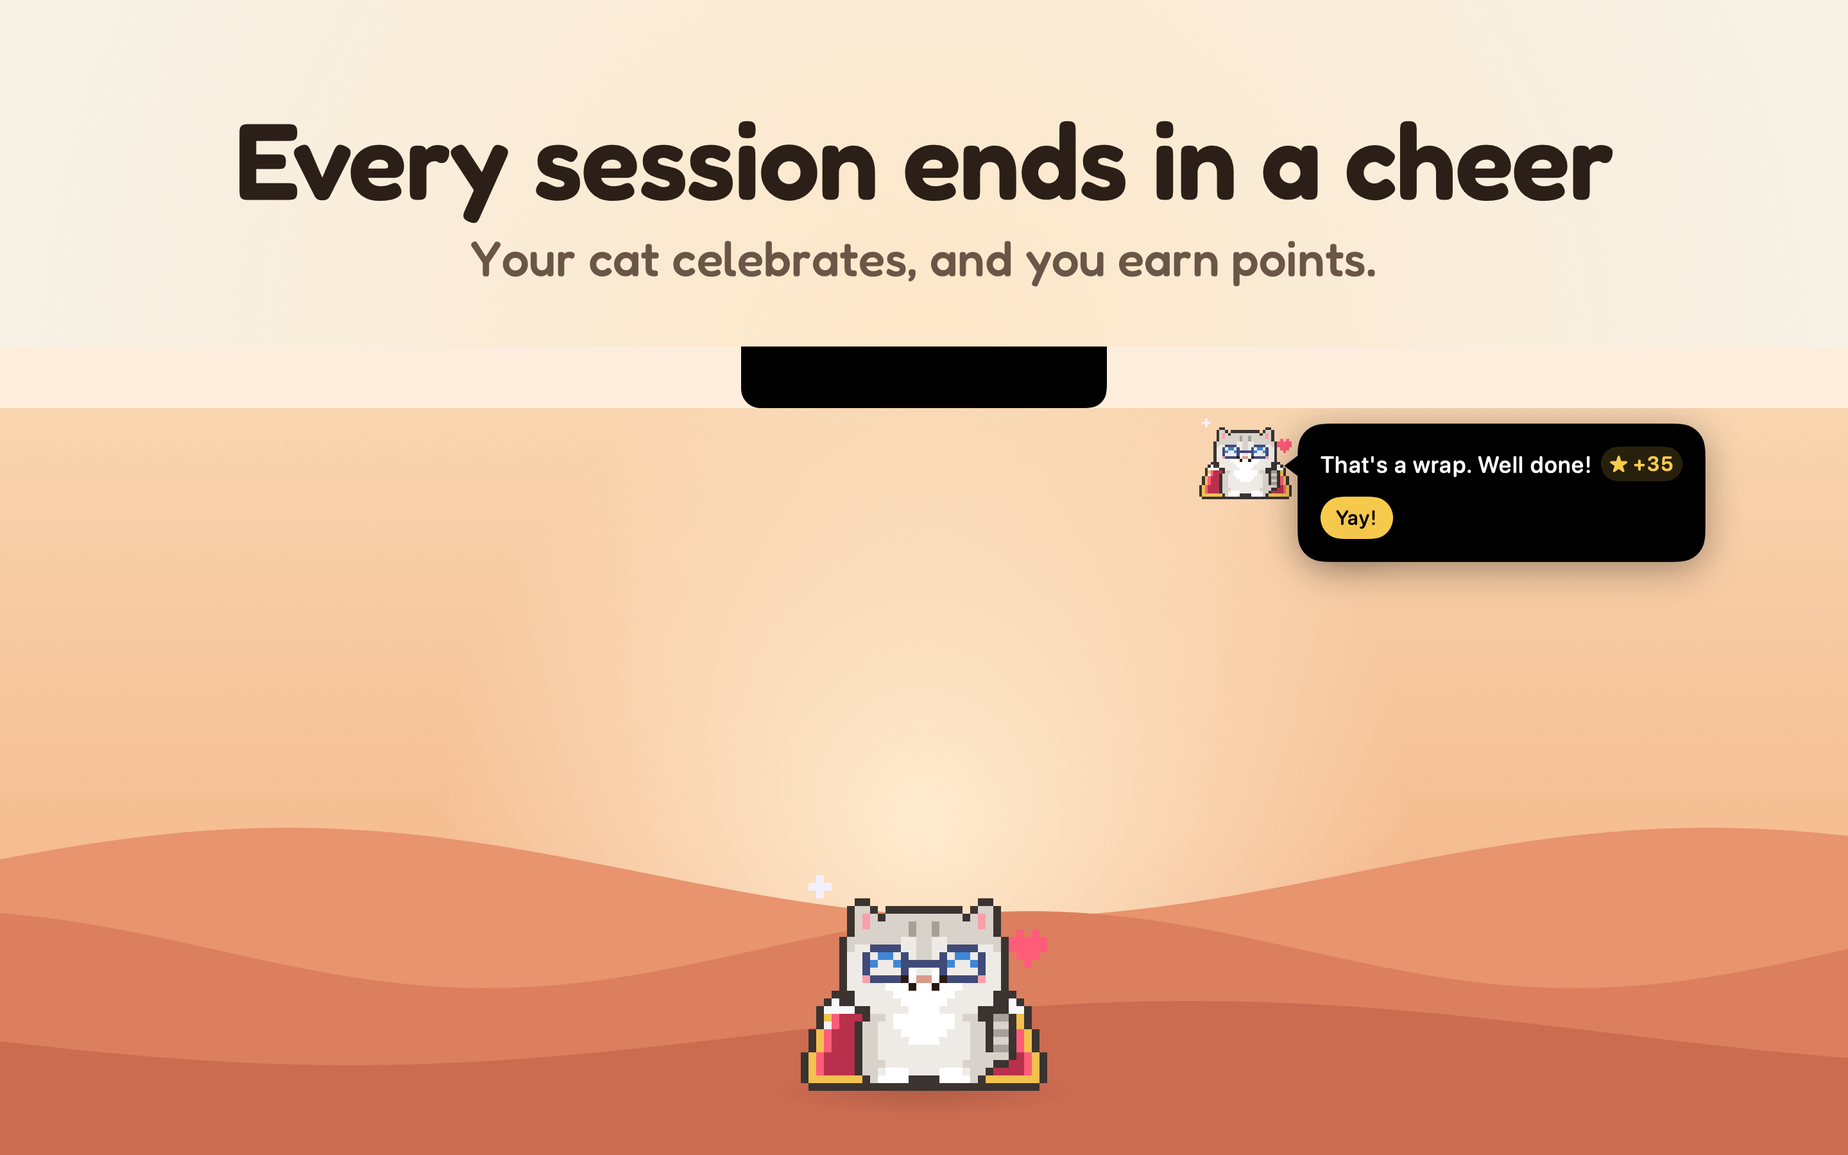
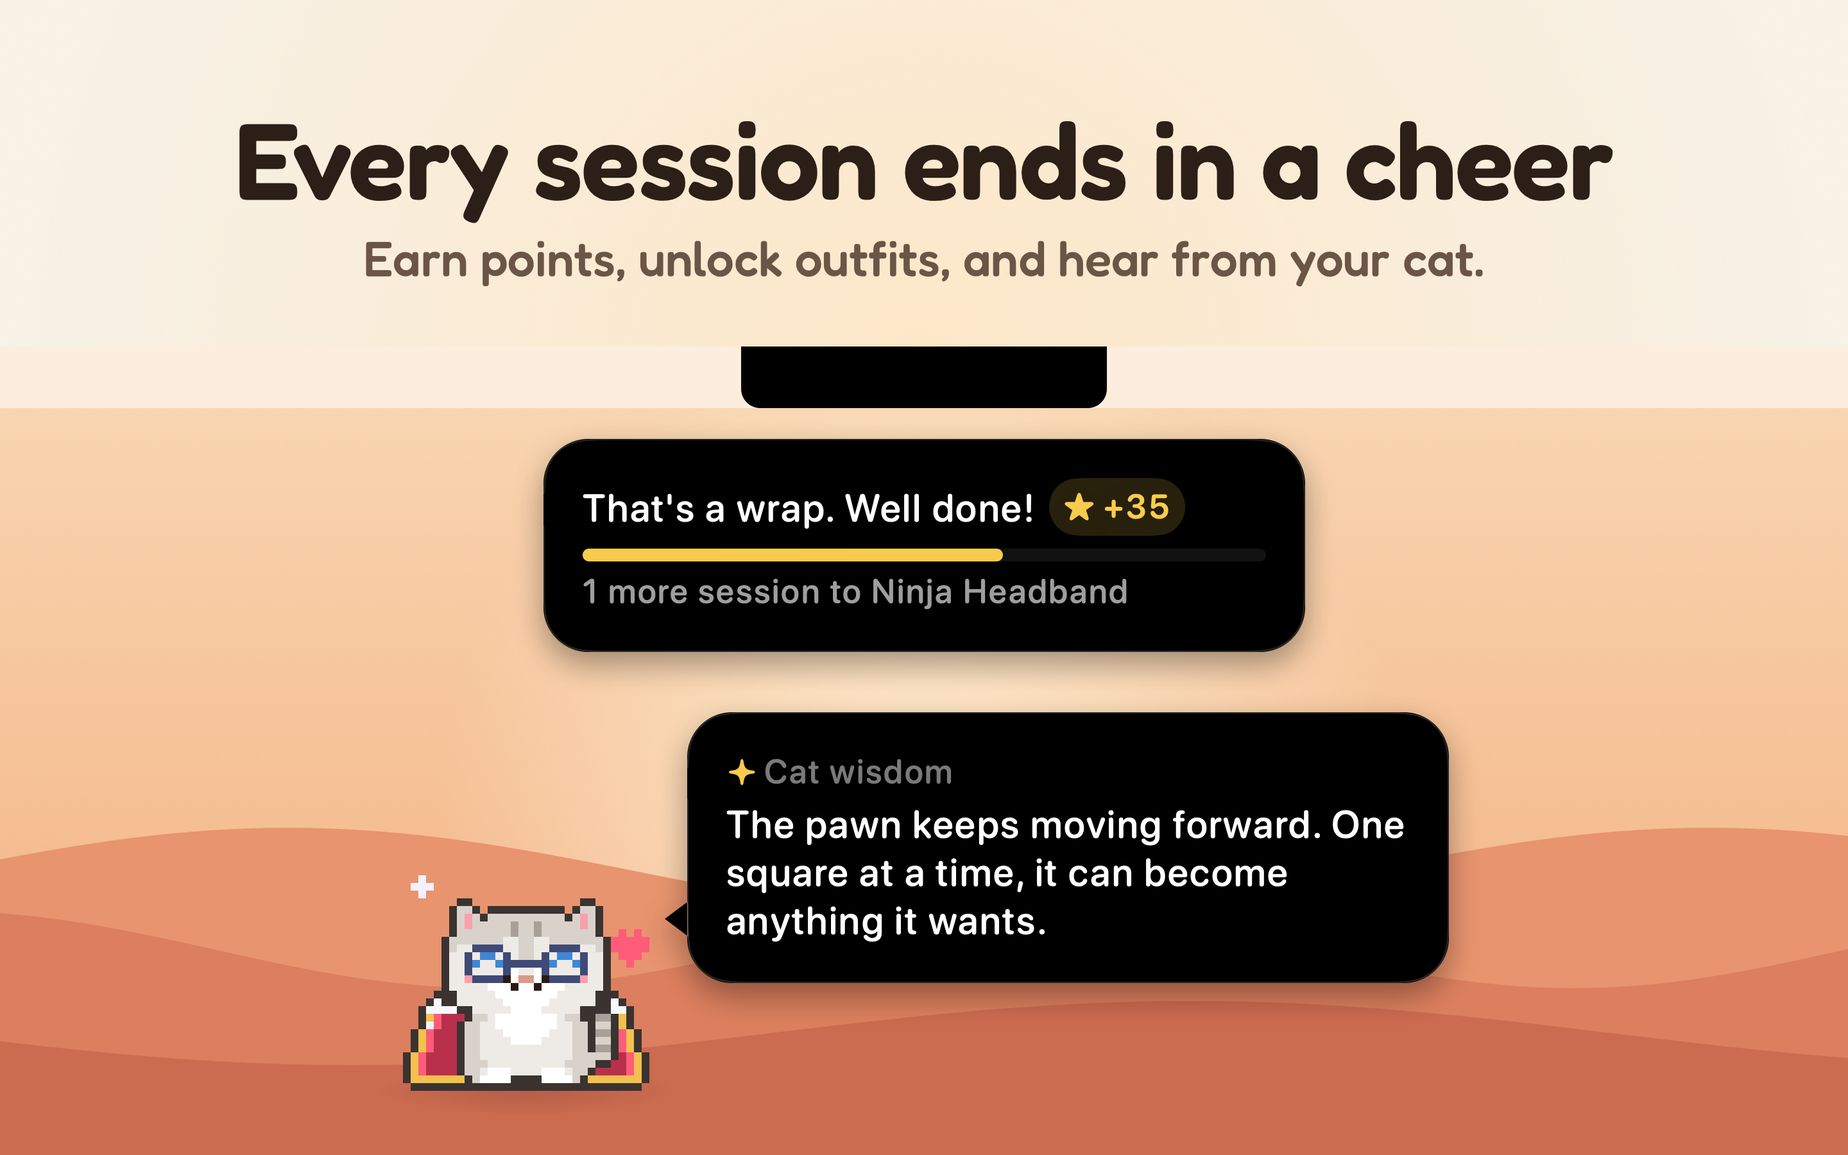
docs(appstore): Rebuilt App Store shot 2 around the new end-of-session moment: the closed notch centered at the top, the readable 5x session-end card below it (+35, the bar, "1 more session to Ninja Headband"), and the cheering cat on the dunes with the pawn Cat wisdom line in its bubble. The App Pr

Changed region(s): [[0.2188, 0.3422, 0.9375, 0.9644], [0.1875, 0.2178, 0.8125, 0.2489]]

diff --git a/docs/appstore/make-media.swift b/docs/appstore/make-media.swift
@@ -5,10 +5,11 @@
 //
 //     swift docs/appstore/make-media.swift                                # render everything, then compose
 //     swift docs/appstore/make-media.swift <panels> <coach> <accents> [<recording>]   # compose from existing folders
+//     swift docs/appstore/make-media.swift --screenshots-only <panels> <coach> <accents>  # leave the preview as it is
 //
 // Folders passed in must come from
 //     TABBI_DEMO=1 swift run Tabbi --snapshot <panels> --edition appstore --tabs study,planner,anki,spotify,closet --scale 3 --transparent
-//     TABBI_DEMO=1 swift run Tabbi --snapshot <coach> --edition appstore --tabs study,planner,anki,spotify,closet --scale 3 --transparent   # or the panels folder again
+//     TABBI_DEMO=1 TABBI_WISDOM_ALL=1 swift run Tabbi --snapshot <coach> --edition appstore --tabs study,planner,anki,spotify,closet --scale 5 --transparent
 //     swift run PetGallery <accents> accents
 //     TABBI_DEMO=1 TABBI_DEMO_FOCUS_LEFT=1126 swift run -c release Tabbi --record <recording>/opening --part opening --edition appstore --tabs study,planner,anki,spotify,closet
 //     TABBI_DEMO=1 TABBI_DEMO_FOCUS_LEFT=5 swift run -c release Tabbi --record <recording>/story --part story --edition appstore --tabs study,planner,anki,spotify,closet
@@ -53,9 +54,11 @@ let reviewSizes = [("small", CGSize(width: 1280, height: 800)), ("gallery", CGSi
 /// Pixels per point of the panel snapshots: the Large panel is drawn 1:1 at
 /// about 1800 px wide, never scaled up.
 let panelScale = 3.0
-/// Pixels per point of the closed notch and the coach in shot 2, the one shot
-/// without an open panel: the panels' scale, so the notch matches theirs.
-let coachScale = panelScale
+/// Pixels per point of the coach's bubbles in shot 2, the one shot without an
+/// open panel: larger than the panels', so the session-end card and the Cat
+/// wisdom line stay readable in the 540 px gallery copy. The closed notch
+/// keeps the panels' scale, so it matches the other shots.
+let coachScale = 5.0
 /// The tabs every shot shows: Essentials plus flashcards, and the Closet paw.
 let storeTabs = "study,planner,anki,spotify,closet"
 
@@ -86,10 +89,10 @@ func temporaryFolder(_ name: String) -> URL {
 }
 
 /// Renders fresh App Store edition demo snapshots of the store layout.
-func renderDemoSnapshots(scale: Double, name: String) -> URL {
+func renderDemoSnapshots(scale: Double, name: String, environment: [String: String] = [:]) -> URL {
     let directory = temporaryFolder(name)
     run(["swift", "run", "Tabbi", "--snapshot", directory.path, "--edition", "appstore", "--tabs", storeTabs,
-         "--scale", String(scale), "--transparent"], demo: true)
+         "--scale", String(scale), "--transparent"], demo: true, environment: environment)
     return directory
 }
 
@@ -359,7 +362,11 @@ struct PetPose {
     }
 }
 
-enum Side { case left, center, right }
+enum Side: Equatable {
+    case left, center, right
+    /// Centered on this x, facing right.
+    case at(CGFloat)
+}
 
 /// Draws the pet on the front dune at `pixel` screen pixels per sprite pixel
 /// (nearest neighbor, integer only), with a soft contact shadow, facing the
@@ -372,6 +379,7 @@ func drawPet(_ sprite: CGImage, side: Side, pixel: Int, canvas: CGSize, in conte
     case .left: 380
     case .center: canvas.width / 2
     case .right: canvas.width - 380
+    case .at(let x): x
     }
     // The front dune's top stays above this line, so the paws always rest
     // on sand.
@@ -409,9 +417,9 @@ struct Shot {
 }
 
 /// The closed notch, centered at the top of the stage like a MacBook's: 190
-/// by 32 pt at the coach's scale, as the coach snapshot draws it.
+/// by 32 pt at the panels' scale, as the app draws it.
 func closedNotchRect(in canvas: CGSize) -> CGRect {
-    CGRect(x: canvas.width / 2 - 95 * coachScale, y: stageTop, width: 190 * coachScale, height: 32 * coachScale)
+    CGRect(x: canvas.width / 2 - 95 * panelScale, y: stageTop, width: 190 * panelScale, height: 32 * panelScale)
 }
 
 /// Composes one shot into an opaque RGB bitmap of the canvas size.
@@ -455,7 +463,7 @@ func compose(_ shot: Shot) -> CGImage {
     }
 
     guard let panel else {
-        drawCoach(canvas: canvas, in: context)
+        drawCoach(canvas: canvas, pet: pet, in: context)
         return context.makeImage()!
     }
     // The panel 1:1, with the snapshot's own shadow only.
@@ -464,25 +472,105 @@ func compose(_ shot: Shot) -> CGImage {
 }
 
 /// Shot 2: the closed notch centered at the top edge, like a MacBook's, with
-/// the pet out beside it, mid-cheer, and the coach's celebration bubble, as
-/// the app draws them at one moment. The coach snapshot holds the notch's
-/// right part; the rest of the notch is drawn from the app's geometry (190
-/// by 32 pt, 10 pt bottom corners). The bubble reaches about 330 pt right of
-/// the notch, which sets the scale: at 3 pixels per point (the panels' own)
-/// it ends well inside the canvas.
-func drawCoach(canvas: CGSize, in context: CGContext) {
-    let coach = trimmed(loadImage(coachFolder.appendingPathComponent("coach-celebrate.png")))
+/// the session-end card hanging below it (the points, and the bar toward the
+/// next unlock) and the cheering pet on the dunes saying its Cat wisdom line.
+/// In the app the pet says both in one bubble beside the notch, the wisdom
+/// after the card; here they show at once, each drawn from the app's own
+/// coach snapshots at `coachScale`. The card leaves its tail out, since it
+/// points at the small pet beside the notch, and the wisdom bubble gets a
+/// tail toward the big pet.
+func drawCoach(canvas: CGSize, pet: CGRect, in context: CGContext) {
     let notch = closedNotchRect(in: canvas)
-    let hidden = notch.width - 92 * coachScale
-    context.addPath(roundedRect(CGRect(x: notch.minX, y: notch.minY, width: hidden + 2, height: notch.height),
-                                topRadius: 0, bottomLeft: 10 * coachScale, bottomRight: 0))
+    context.addPath(roundedRect(notch, topRadius: 0, bottomLeft: 10 * panelScale, bottomRight: 10 * panelScale))
     context.setFillColor(color(0x000000))
     context.fillPath()
-    let coachRect = CGRect(x: notch.minX + hidden, y: notch.minY, width: CGFloat(coach.width), height: CGFloat(coach.height))
-    if coachRect.maxX > canvas.width - 80 {
-        FileHandle.standardError.write(Data("make-media: the coach bubble runs past the canvas margin in shot 2\n".utf8))
+
+    let card = bubbleBody(in: loadImage(coachFolder.appendingPathComponent("coach-session-end.png")))
+    let cardRect = CGRect(x: ((canvas.width - CGFloat(card.width)) / 2).rounded(), y: notch.maxY + 16 * panelScale,
+                          width: CGFloat(card.width), height: CGFloat(card.height))
+    drawBubble(card, in: cardRect, tailY: nil, context: context)
+
+    // The wisdom bubble up and to the right of the pet, its tail at the
+    // pet's face, as high on the bubble's edge as the corner allows.
+    let wisdom = bubbleBody(in: loadImage(coachFolder.appendingPathComponent("coach-wisdom-all-0.png")))
+    let face = pet.minY + pet.height * 0.3
+    let wisdomRect = CGRect(x: pet.maxX + 24 + tailLength, y: (pet.minY + pet.height * 0.5 - CGFloat(wisdom.height)).rounded(),
+                            width: CGFloat(wisdom.width), height: CGFloat(wisdom.height))
+    let tailY = min(max(face, wisdomRect.minY + 22 * coachScale), wisdomRect.maxY - 20 * coachScale)
+    if wisdomRect.maxX > canvas.width - 80 {
+        FileHandle.standardError.write(Data("make-media: the wisdom bubble runs past the canvas margin in shot 2\n".utf8))
     }
-    drawImage(coach, in: coachRect, smooth: false, context: context)
+    if wisdomRect.minY < cardRect.maxY + 40 {
+        FileHandle.standardError.write(Data("make-media: the wisdom bubble crowds the session-end card in shot 2\n".utf8))
+    }
+    drawBubble(wisdom, in: wisdomRect, tailY: tailY, context: context)
+}
+
+/// The coach bubble's tail, 7 pt at the coach's scale.
+let tailLength = 7 * coachScale
+
+/// The body of the coach's speech bubble in a coach snapshot, without its
+/// tail, its shadow or the pet beside it: the rows that hold a long run of
+/// the bubble's black fill, from the edges most of them share (the tail's
+/// rows start further left, the corners' further in), grown by its hairline
+/// stroke.
+func bubbleBody(in image: CGImage) -> CGImage {
+    let bytes = pixels(of: image)
+    let width = image.width
+    // Below the notch, which is black too.
+    let firstRow = Int(34 * coachScale)
+    var (starts, ends, minY, maxY) = ([Int: Int](), [Int: Int](), image.height, -1)
+    for y in firstRow..<image.height {
+        var (run, start) = (0, 0)
+        var (bestRun, bestStart) = (0, 0)
+        for x in 0..<width {
+            let index = (y * width + x) * 4
+            if bytes[index + 3] == 255 && bytes[index] < 8 && bytes[index + 1] < 8 && bytes[index + 2] < 8 {
+                if run == 0 { start = x }
+                run += 1
+                if run > bestRun { (bestRun, bestStart) = (run, start) }
+            } else {
+                run = 0
+            }
+        }
+        guard CGFloat(bestRun) > 120 * coachScale else { continue }
+        starts[bestStart, default: 0] += 1
+        ends[bestStart + bestRun - 1, default: 0] += 1
+        minY = min(minY, y); maxY = max(maxY, y)
+    }
+    guard let minX = starts.max(by: { $0.value < $1.value })?.key,
+          let maxX = ends.max(by: { $0.value < $1.value })?.key
+    else { fail("no coach bubble in a coach snapshot") }
+    let stroke = Int(coachScale / 2)
+    return image.cropping(to: CGRect(x: minX - stroke, y: minY - stroke,
+                                     width: maxX - minX + 1 + stroke * 2, height: maxY - minY + 1 + stroke * 2))!
+}
+
+/// Draws a bubble body clipped to its rounded corners over the app's own
+/// shadow (black at 35 percent, 10 pt blur, 4 pt down), with the black tail
+/// pointing left at `tailY` when there is one.
+func drawBubble(_ body: CGImage, in rect: CGRect, tailY: CGFloat?, context: CGContext) {
+    let radius = 14 * coachScale
+    let shape = CGMutablePath()
+    shape.addRoundedRect(in: rect, cornerWidth: radius, cornerHeight: radius)
+    if let tailY {
+        shape.move(to: CGPoint(x: rect.minX + coachScale, y: tailY - 6 * coachScale))
+        shape.addLine(to: CGPoint(x: rect.minX - tailLength, y: tailY))
+        shape.addLine(to: CGPoint(x: rect.minX + coachScale, y: tailY + 6 * coachScale))
+        shape.closeSubpath()
+    }
+    context.saveGState()
+    // The context is flipped, so a shadow that falls down has a negative y.
+    context.setShadow(offset: CGSize(width: 0, height: -4 * coachScale), blur: 10 * coachScale, color: color(0x000000, 0.35))
+    context.addPath(shape)
+    context.setFillColor(color(0x000000))
+    context.fillPath()
+    context.restoreGState()
+    context.saveGState()
+    context.addPath(CGPath(roundedRect: rect, cornerWidth: radius, cornerHeight: radius, transform: nil))
+    context.clip()
+    drawImage(body, in: rect, smooth: false, context: context)
+    context.restoreGState()
 }
 
 /// A smaller copy for the readability checks, scaled with high quality.
@@ -835,17 +923,23 @@ func writePreview(frameCount: Int, frame: @escaping (Int) -> CGImage, to url: UR
 
 // MARK: - Main
 
-let arguments = Array(CommandLine.arguments.dropFirst())
+var arguments = Array(CommandLine.arguments.dropFirst())
+/// `--screenshots-only` composes the screenshots and leaves the preview as it is.
+let screenshotsOnly = arguments.contains("--screenshots-only")
+arguments.removeAll { $0 == "--screenshots-only" }
 guard arguments.isEmpty || (3...4).contains(arguments.count) else {
     fail("pass no arguments, or a panel snapshot folder, a coach snapshot folder, an accents folder and optionally a recording folder")
 }
 let panelFolder = arguments.isEmpty ? renderDemoSnapshots(scale: panelScale, name: "panels") : URL(fileURLWithPath: arguments[0])
-// The coach shares the panels' scale, so one render serves both.
-let coachFolder = arguments.isEmpty ? panelFolder : URL(fileURLWithPath: arguments[1])
+// The coach at its own scale, with every Cat wisdom line, so shot 2 can pick one.
+let coachFolder = arguments.isEmpty
+    ? renderDemoSnapshots(scale: coachScale, name: "coach", environment: ["TABBI_WISDOM_ALL": "1"])
+    : URL(fileURLWithPath: arguments[1])
 let accentFolder = arguments.isEmpty ? renderAccents() : URL(fileURLWithPath: arguments[2])
-let recordingFolder = arguments.count == 4 ? URL(fileURLWithPath: arguments[3]) : recordPreview()
+let recordingFolder = screenshotsOnly ? nil : arguments.count == 4 ? URL(fileURLWithPath: arguments[3]) : recordPreview()
 defer {
-    let temporary = (arguments.isEmpty ? [panelFolder, accentFolder] : []) + (arguments.count == 4 ? [] : [recordingFolder])
+    let temporary = (arguments.isEmpty ? [panelFolder, coachFolder, accentFolder] : [])
+        + (arguments.count == 4 ? [] : recordingFolder.map { [$0] } ?? [])
     for folder in temporary { try? FileManager.default.removeItem(at: folder) }
 }
 
@@ -865,8 +959,8 @@ let shots: [Shot] = [
     Shot(file: "1-timer", caption: "A cozy timer in your notch", subcaption: "Focus with a little cat who cheers you on.",
          panel: "open-large-study", tint: orange, hero: CGPoint(x: 0.22, y: 0.5),
          pet: PetPose(animation: "typing", frame: 2), petSide: .left),
-    Shot(file: "2-cheer", caption: "Every session ends in a cheer", subcaption: "Your cat celebrates, and you earn points.",
-         tint: orange, pet: PetPose(animation: "celebrate", frame: 2), petSide: .center),
+    Shot(file: "2-cheer", caption: "Every session ends in a cheer", subcaption: "Earn points, unlock outfits, and hear from your cat.",
+         tint: orange, pet: PetPose(animation: "celebrate", frame: 2), petSide: .at(820)),
     Shot(file: "3-closet", caption: "Earn points, dress your cat", subcaption: "Every focus day fills your chart.",
          panel: "open-large-closet", tint: gold, hero: CGPoint(x: 0.25, y: 0.5),
          pet: PetPose(animation: "idle"), petSide: .right, petPixel: 13),
@@ -891,6 +985,7 @@ for shot in shots {
     }
 }
 
+guard let recordingFolder else { exit(0) }
 let preview = composePreview(opening: Recording(recordingFolder.appendingPathComponent("opening")),
                              story: Recording(recordingFolder.appendingPathComponent("story")))
 try? FileManager.default.createDirectory(at: previewDirectory, withIntermediateDirectories: true)

diff --git a/Sources/Tabbi/Modules/PetCoach/PetCoachSnapshots.swift b/Sources/Tabbi/Modules/PetCoach/PetCoachSnapshots.swift
@@ -37,7 +37,9 @@ enum PetCoachSnapshots {
         // session made an item affordable, and one with nothing left to unlock.
         let party = PetCoachStroll(startedAt: start, talkDuration: PetCoach.celebrationDuration)
         let session = PetStudyAward(completedSessions: 1, minutes: 25, points: 35)
-        let toNext = UnlockProgress(balance: 40, earned: 35, ledger: PetPointsLedger(purchased: [.accessory(.beanie)]))
+        // The demo pet wears the glasses, so they are owned and the bar aims at the next item.
+        let toNext = UnlockProgress(balance: 40, earned: 35,
+                                    ledger: PetPointsLedger(purchased: [.accessory(.beanie), .accessory(.roundGlasses)]))
         let done = PetCoachScene(profile: profile, stroll: party, line: .celebration(session, progress: toNext))
         shots.append(("coach-celebrate", frozen(done, party.arrivesAt.addingTimeInterval(0.3))))
         shots.append(("coach-session-end", frozen(done, party.arrivesAt.addingTimeInterval(2))))

diff --git a/docs/appstore.md b/docs/appstore.md
@@ -272,7 +272,7 @@ They are 2880x1800 (16:10) flattened 8-bit PNGs in sRGB IEC61966-2.1 with no alp
 Upload them in file name order:
 
 1. `1-timer`: "A cozy timer in your notch", the Timer running in round 2 of 4 with two focus sounds on.
-2. `2-cheer`: "Every session ends in a cheer", the closed notch centered at the top edge with the pet out beside it and the coach's "That's a wrap. Well done!" +35 bubble, exactly where the app draws that moment, and the big cheering cat on the dunes.
+2. `2-cheer`: "Every session ends in a cheer" with the subcaption "Earn points, unlock outfits, and hear from your cat.", the closed notch centered at the top edge with the session-end card hanging below it ("That's a wrap. Well done!", +35 and the bar toward the next unlock, "1 more session to Ninja Headband"), and the big cheering cat on the dunes saying a Cat wisdom line ("The pawn keeps moving forward. One square at a time, it can become anything it wants.").
 3. `3-closet`: "Earn points, dress your cat" with the subcaption "Every focus day fills your chart.", the Closet's Activity section (the study heatmap, 30 days of focus time, best day and streak) beside Mochi in the King's Cape, with 240 points (`open-large-closet`).
    The preview's Closet beat still picks the Wardrobe, since that beat shows an item being worn.
 4. `4-today`: "Today, right up top", Today with tasks, Up next and the mini timer.
@@ -292,8 +292,9 @@ All names, songs and decks in the demo data are fictional, and no caption has a 
 
 The design: a cream canvas with the site's paper grain and a soft glow tinted 6 percent toward the active tab's accent, a one-line Fredoka SemiBold headline (168 px, baseline at y=310) and a Fredoka Medium subcaption (76 px, baseline at y=430), over a full-bleed original dune wallpaper from y=540 with a plain translucent menu bar (no device, no Apple logo, no menus).
 The real panel hangs from the menu bar, drawn 1:1 from snapshots rendered at 3 pixels per point, with only its own shadow.
-Shot 2 has no open panel, so it shows the closed notch (190 by 32 pt) centered at the top of the stage like a MacBook's, with the coach to its right where the app's overlay window puts it (from the notch's right edge), all at the panels' 3 pixels per point; the menu bar there is as tall as the notch.
-The bubble reaches about 330 pt right of the notch, so 3x is about the largest scale that keeps it inside the canvas with the notch centered; the script warns if it ever runs past the margin.
+Shot 2 has no open panel, so it shows the closed notch (190 by 32 pt, at the panels' 3 pixels per point) centered at the top of the stage like a MacBook's; the menu bar there is as tall as the notch.
+In the app the pet says the session-end card and then its Cat wisdom line in one bubble beside the notch; the shot shows both at once so the moment reads at gallery size: the card centered below the notch and the wisdom bubble beside the big cat, each cut from the app's own coach snapshots at 5 pixels per point (`coach-session-end` and `coach-wisdom-all-0`, which `TABBI_WISDOM_ALL=1` renders).
+The card leaves out its tail, which points at the small pet beside the notch, and the wisdom bubble's tail is redrawn toward the big cat; the script warns if the wisdom bubble runs past the margin or crowds the card.
 The demo pet, Mochi in the same King's Cape and round glasses as in the panel, sits on the front dune in a different mood per shot (typing, cheering, awake, asleep, and with headphones and a mug for music).
 It is drawn by the app's own pet renderer (`swift run PetGallery <folder> accents`) and scaled up with nearest neighbor by whole numbers (12x, 13x in the Closet shot), so the pixel art stays sharp.
 Shot 5 uses the night variant of the canvas: dusk dunes, pixel stars and a darker menu bar.
@@ -305,8 +306,9 @@ To render them and the App Preview again after a UI change, run:
 swift docs/appstore/make-media.swift
 ```
 
-The script renders App Store edition demo snapshots of the store layout (`--edition appstore --tabs study,planner,anki,spotify,closet --transparent --scale 3`, which also holds the coach shot) and the pet's frames, records the App Preview's footage (below), then composes the screenshots and the preview.
-To compose from folders you already rendered that way, pass the 3x folder twice (panels, then coach) and the accents folder, and optionally a recording folder that holds `opening/` and `story/`; without one the preview is recorded fresh.
+The script renders App Store edition demo snapshots of the store layout (`--edition appstore --tabs study,planner,anki,spotify,closet --transparent --scale 3`), the same again at `--scale 5` with `TABBI_WISDOM_ALL=1` for the coach, and the pet's frames, records the App Preview's footage (below), then composes the screenshots and the preview.
+To compose from folders you already rendered that way, pass the 3x folder, the 5x coach folder and the accents folder, and optionally a recording folder that holds `opening/` and `story/`; without one the preview is recorded fresh.
+Add `--screenshots-only` to compose the screenshots and leave the preview alone.
 It warns when a caption runs into the side margins or the pet touches the panel.
 The clocks in the demo panels are live, so every run changes the shots that show a timer; commit only the images you meant to change.
 
